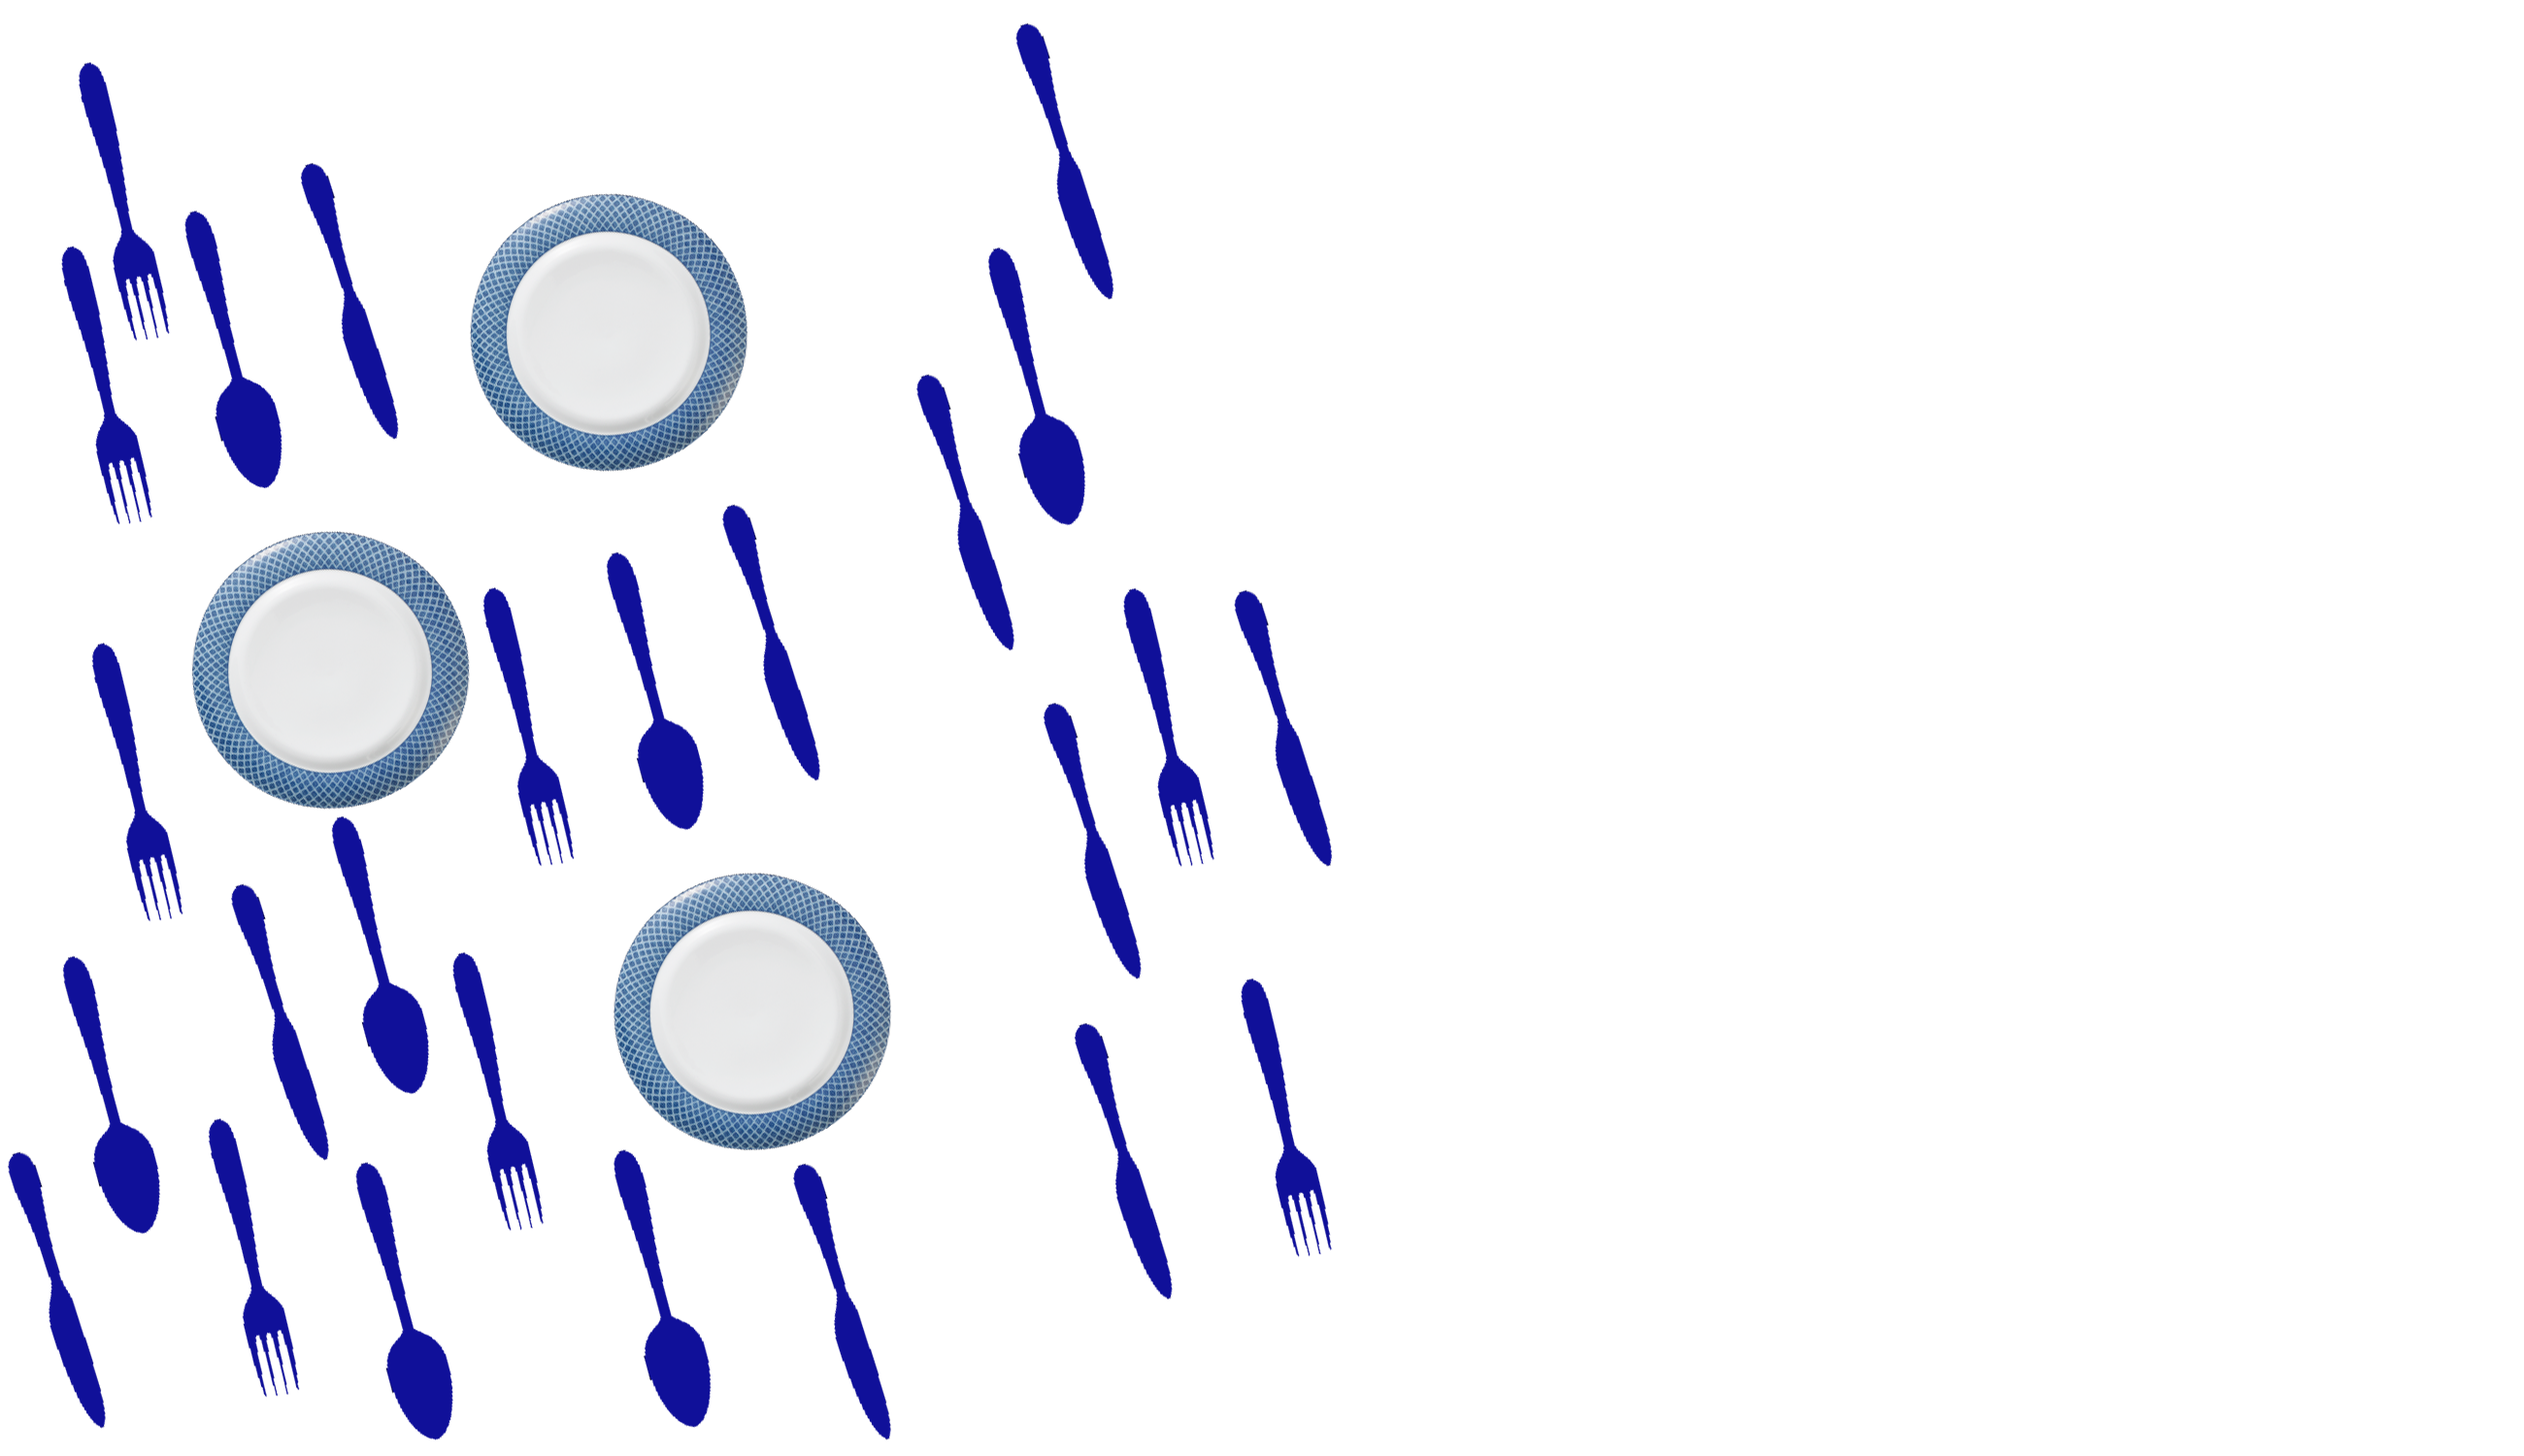
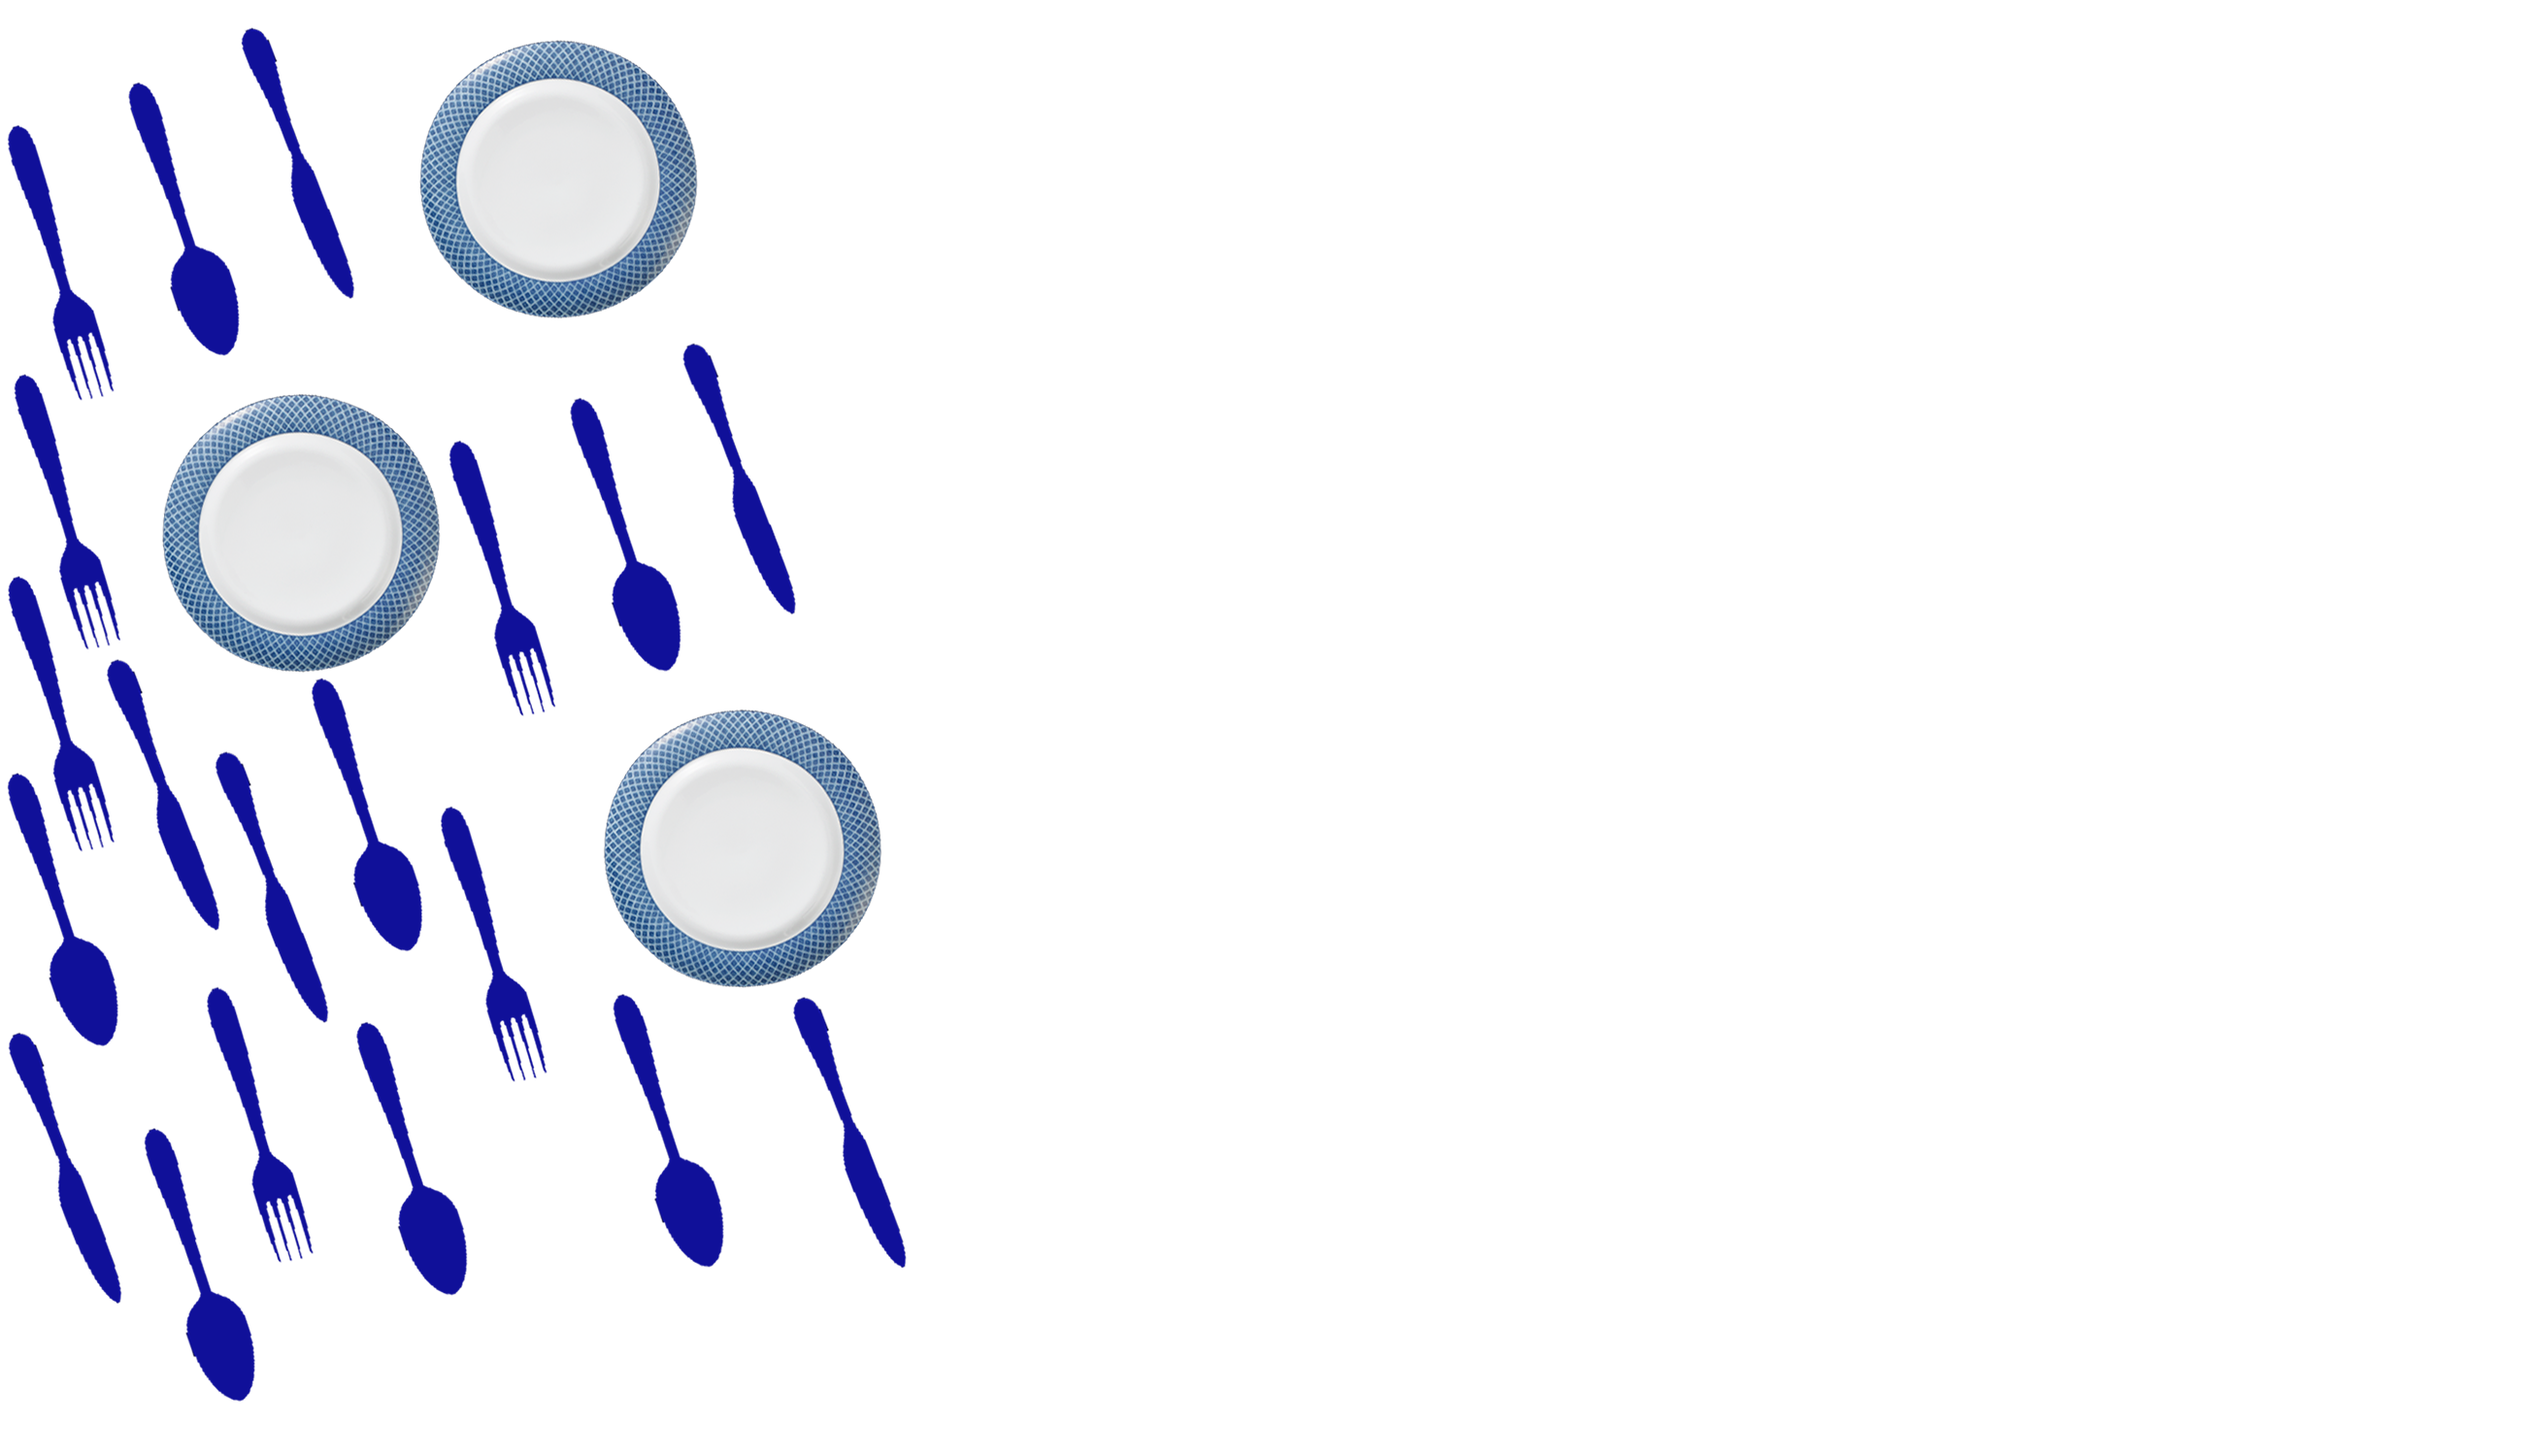
Our Works coompleted

diff --git a/index.html b/index.html
@@ -100,7 +100,7 @@
 	<center>
 	<h1 style="">WELCOME TO ADURCUP!</h1>	
 
-	<p style="font-size: 1.5em; font-style: italic;">Adurcup is working to make offline advertising accountable, by providing procurement solution for F &amp; B<br> establishments which help in gain relevant data points about them, enabling it create a platform for advertisers to<br> handpick their target customers. It enables restaurants to generate a revenue channel through advertising, who are<br> paid only when they report advertisement. Revenue generated through ad booking is the major driver.</p>
+	<p style="font-size: 1.5em;">Adurcup is working to make offline advertising accountable, by providing procurement solution for F &amp; B<br> establishments which help in gain relevant data points about them, enabling it create a platform for advertisers to<br> handpick their target customers. It enables restaurants to generate a revenue channel through advertising, who are<br> paid only when they report advertisement. Revenue generated through ad booking is the major driver.</p>
 	</center>
 	</div>
 	<!-- End of Welcome -->
@@ -110,14 +110,39 @@
 	<center><h1>OUR WORK DOMAINS</h1></center>
 
 <div class="container-fluid" style="//width: 100%; height: 20vh; overflow: hidden; display: block; //padding-bottom: 30vh;">
-    <div class=" col-md-5" style="overflow: hidden; height: 1000vh; z-index:-1; display: block; //position: absolute; //background: url('img/plates.png'); background-size: cover;" >
-        <img class="rot" height="1000" src="img/over.png" style="background: url('img/plates.png') repeat; background-size: contain;">
+    <div class=" col-md-5 col-xs-5" style="overflow: hidden; height: 1000vh; z-index:-1; display: block; //position: absolute; //background: url('img/plates.png'); background-size: cover;" >
+        <img class="rot" height="1000" src="img/over.png" style="background: url('img/plates1.png') repeat; background-size: contain;">
     </div>    
+
+    <div class="col-md-2 col-xs-2">
+    	<img class="img-responsive" src="img/logo.png">
+    </div>
+
+    <div class=" col-md-5 col-xs-5" style="overflow: hidden; height: 1000vh; z-index:-1; display: block; //position: absolute; //background: url('img/plates.png'); background-size: cover;" >
+        <img class="rotback" height="1000" src="img/over.png" style="background: url('img/plates-back.png') repeat; background-size: contain;">
+    </div>
+
     <div style="z-index: 0; position: relative; top: -20vh;//padding-bottom: 30vh;">
         
     </div>
 
+
 </div>
+    <div class="container-fluid">
+    	<div class="col-md-5" style=" //margin-top: 4em; font-size: 1.5em;">
+    		<center><h3>Advertisement</h3></center>
+    		<p>Adurcup is working to make offline advertising accountable, by providing procurement solution for F &amp; B establishments which help in gain relevant data points about them, enabling it create a platform for advertisers to handpick their target customers. It enables restaurants to generate a revenue channel through advertising, who are paid only when they report advertisement. Revenue generated through ad booking is the major driver.</p>
+    		<center><a href="#" class="btn btn-primary">Learn More</a></center>
+    	</div>
+    	<div class="col-md-2">
+    		
+    	</div>
+    	<div class="col-md-5" style="text-align: right; //margin-top: 4em; font-size: 1.5em;">
+    		<center><h3>Restaurant Management</h3></center>
+    		<p>Adurcup is working to make offline advertising accountable, by providing procurement solution for F &amp; B establishments which help in gain relevant data points about them, enabling it create a platform for advertisers to handpick their target customers. It enables restaurants to generate a revenue channel through advertising, who are paid only when they report advertisement. Revenue generated through ad booking is the major driver.</p>
+    		<center><a href="#" class="btn btn-primary">Learn More</a></center>
+    	</div>
+    </div>
 
 	<!-- End of Our Work Domain -->
 

diff --git a/css/animation.css b/css/animation.css
@@ -21,3 +21,28 @@
     }
 
 }
+
+
+.rotback{
+            
+    animation: exampleback 10s infinite;
+    /*animation-duration: 10s;*/
+    /*animation-iteration-count: infinite;*/
+    /*animation-direction: bottom;    */
+}    
+
+@keyframes exampleback{
+    0%{
+        -ms-transform:  translate(-100px,100px); /* IE 9 */
+        -webkit-transform:  translate(-100px,100px); /* Safari */
+        transform:  translate(-100px,100px);
+        
+    }
+    100%{
+        -ms-transform: rotate(0deg) translate(100px,-1000px); /* IE 9 */
+        -webkit-transform: rotate(0deg) translate(100px,-1000px); /* Safari */
+        transform: rotate(0deg) translate(100px,-1000px);
+        
+    }
+
+}

diff --git a/css/style.css b/css/style.css
@@ -1,7 +1,3 @@
-body{
-	font-family: 'Arial';
-}
-
 h1, p{
 	color: #555;
 }
@@ -9,6 +5,11 @@ h1, p{
 h1{
 	font-weight: 700;
 	margin: 2em 0;
+}
+
+h3{
+
+	font-weight: 700;
 }
 
 .testimg{
